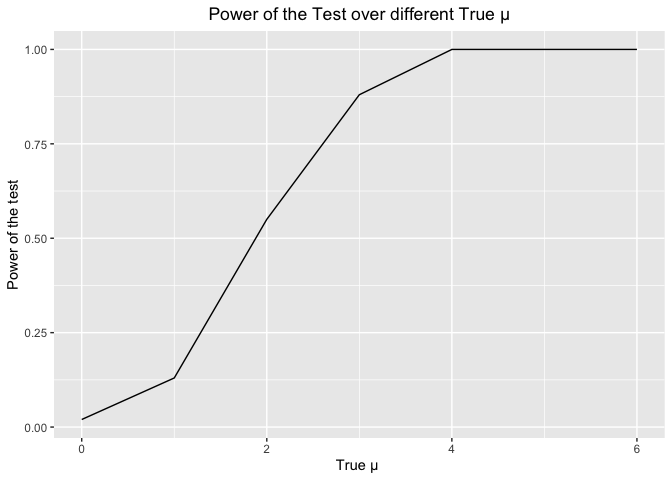
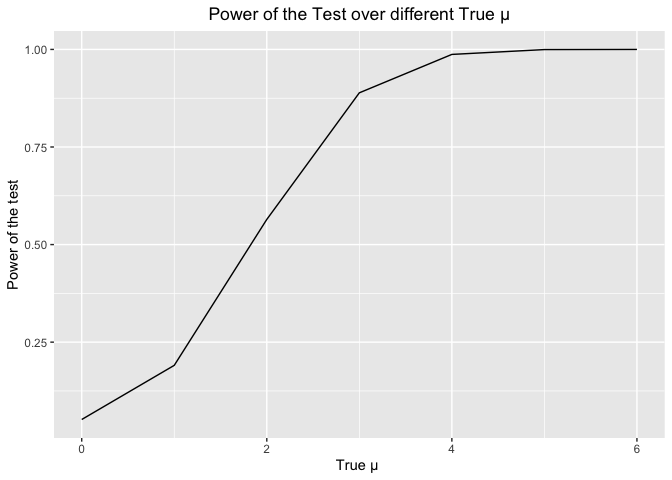
draw second plot for problem 3

diff --git a/p8105_hw5_jz3571.md b/p8105_hw5_jz3571.md
@@ -196,7 +196,7 @@ sim_func = function(n = 30, mu, sigma = 5){
 }
 ```
 
-### Set Mu = 0
+### Set = 0
 
 ``` r
 output = vector("list", length = 5000)
@@ -225,13 +225,13 @@ bind_rows(output) %>%
     ## 5   -1.16    0.202
     ## 6    0.544   0.629
 
-### Repeat above for mu = 1,2,3,4,5,6
+### Repeat above for = 1,2,3,4,5,6
 
 ``` r
 sim_results =
   tibble(true_mu = c(0, 1, 2, 3, 4, 5, 6)) %>% 
   mutate(
-    output = map(.x = true_mu, ~rerun(100, sim_func(mu = .x))),
+    output = map(.x = true_mu, ~rerun(5000, sim_func(mu = .x))),
     estimate = map(output, bind_rows)
     ) %>% 
   select(-output) %>% 
@@ -264,3 +264,29 @@ sim_results %>%
 As μ increases, the proportion of null which was rejected increases as
 well, which means that as effect size increases, power of the test
 increases.
+
+### Make a plot showing the average estimate of μ̂ on the y axis and the true value of μ on the x axis. Overlay a second plot of the average estimate of μ̂ only in samples for which the null was rejected on the y axis and the true value of μ on the x axis.
+
+``` r
+rejected_muhat = 
+  sim_results %>% 
+  filter(p.value < 0.05) %>% 
+  group_by(true_mu) %>% 
+  summarise(ave_muhat = mean(estimate))
+```
+
+``` r
+sim_results %>% 
+  group_by(true_mu) %>% 
+  summarise(ave_muhat = mean(estimate)) %>% 
+  ggplot(aes(x = true_mu, y = ave_muhat)) +
+  geom_line(color = "red") +
+  geom_line(data = rejected_muhat,
+            color = "blue")
+```
+
+![](p8105_hw5_jz3571_files/figure-gfm/unnamed-chunk-15-1.png)<!-- -->
+
+The two plots are approximately the same starting from = 3. At = 1, the
+average only in samples for which the null was rejected is around 2,
+instead of 1.
